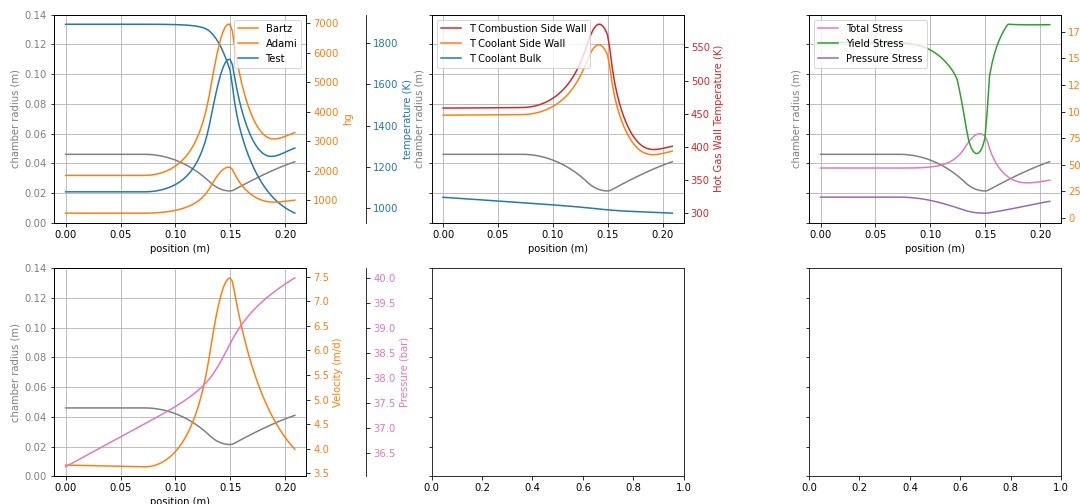
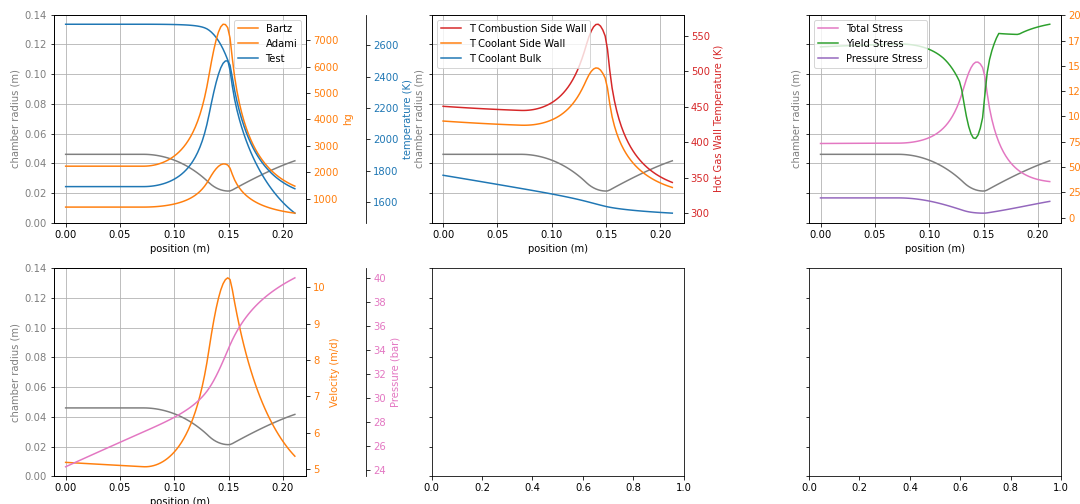
added a few scripts
TestPreNumerical (Contour test to fusion)
testContour (Contour test to fusion)

formatRPA (Formats RPA's thermal code)

RPAThermal (Creates lines for RPA thermodynamic library)

diff --git a/RPAStresses.py b/RPAStresses.py
@@ -1,6 +1,28 @@
 # Plz Delet all the titles for the text file before using this program
 import numpy as np
 import matplotlib.pyplot as plt
+import re
+
+with open('Thanos_RPA.txt', 'r') as input_file:
+    lines = input_file.readlines()
+
+lines = lines[8:]
+filtered_lines = [line for line in lines if not line.startswith('#')]
+
+# Define a regular expression to match numbers
+number_pattern = re.compile(r'[-+]?\d*\.\d+|\d+')
+
+filtered_lines = []
+for line in lines:
+    # Extract numerical values from the line using the regular expression
+    numbers = number_pattern.findall(line)
+    # Join the numbers into a comma-separated string and add it to the filtered lines
+    filtered_line = (' '.join(numbers) + '\n')
+    if filtered_line.strip():
+        filtered_lines.append(filtered_line)
+
+with open('Thanos_Filtered.txt', 'w') as output_file:
+    output_file.writelines(filtered_lines)
 
 x = np.array([25, 50, 100, 150, 200, 250, 300, 350, 400])
 y = np.array([77.6, 75.5, 72.8, 63.2, 60, 55, 45, 37, 28]) * 1e9
@@ -17,24 +39,14 @@ A2 = float(coefficients2[0])
 B2 = float(coefficients2[1])
 C2 = float(coefficients2[2])
 
-def calculate_stress_p(P_l, P_g, w, t_w, E, a, q, v, k):
-    stress_t = 0.5 * (P_l - P_g) * ((w - t_w) ** 2)
-    return stress_t
 
-def calculate_stress_l(E, a, delta_T):
-    stress_l = E * a * delta_T
-    return stress_l
-
-def calculate_stress_t_fornow(t_w, E, a, q, v, k):
-    stress_t = (E * a * q * t_w) / (2 * (1 - v) * k)
-    return stress_t
 
 a = 27 * 10 ** -6
 k = 100
 v = 0.33
-t_w = 0.0008
+t_w = 0.00075
 
-file_path = 'Thanos_RPA_calcs2.txt' # name of the text file
+file_path = 'Thanos_Filtered.txt' # name of the text file
 
 
 pos = []
@@ -46,6 +58,7 @@ tempstress_t = []
 tempstress_l = []
 tempstress_p = []
 von_mises = []
+a_channel = []
 
 data_arrays = []
 
@@ -54,6 +67,7 @@ with open(file_path, 'r') as file:
         line_array = line.split()
         line_array = [float(item) for item in line_array]
         data_arrays.append(line_array)
+
         T = float(line_array[6] - 273.15)
         if 0 < T < 400:
             E = A * (T ** 2) + B * T + C
@@ -62,10 +76,10 @@ with open(file_path, 'r') as file:
             E = 0
             Ys = 0
         q = float(line_array[5]) * 1000
-        stress_t = calculate_stress_t_fornow(t_w, E, a, q, v, k)
+        stress_t = (E * a * q * t_w) / (2 * (1 - v) * k)
         stress_t2 = E * a * (float(line_array[6]) - float(line_array[8]))
-        stress_p = 35e5 * 0.5 * (0.00475 * float(line_array[1]) / 51.1600 / t_w) ** 2
-        print((0.00475 * float(line_array[1]) / 51.1600))
+        stress_p = 35e5 * 0.5 * (0.00475 * float(line_array[1]) / 47.13 / t_w) ** 2
+        a_channel.append(0.00475 * float(line_array[1]) / 47.13)
         twg.append(float(line_array[6]))
         twc.append(float(line_array[8]))
         #print(float(line_array[6]) - float(line_array[8]))
@@ -87,19 +101,23 @@ with open(file_path, 'r') as file:
 #for array in data_arrays:
 #    print(array)
 #print(line_array)
-fig, ax = plt.subplots(1, 1, sharey=True)
-ax.plot(pos, rad)
-ax.set_ylabel("Chamber Radius (m)")
-ax2 = ax.twinx()
+fig, ax = plt.subplots(1, 2, figsize=(15, 5))
+#ax.plot(pos, rad)
+ax[0].set_ylabel("Chamber Radius (m)")
+ax2 = ax[0]
 ax2.plot(pos, yieldstress, color="tab:green"    , label="Yield stress")
 ax2.plot(pos, tempstress_t, color="tab:pink"    , label="Tangential Thermal")
 ax2.plot(pos, tempstress_l, color="tab:purple"  , label="Longitudinal Thermal")
 ax2.plot(pos, tempstress_p, color="tab:orange"  , label="Tangential Pressure")
 ax2.plot(pos, von_mises, color="tab:red"        , label="Von-Mises")
 ax2.set_ylabel("Stress (MPA)")
+ax2.set_xlabel("Wall thickness: 0.75mm, Angle: 30, OF: 2.5")
+ax[0].grid()
 ax2.legend()
+ax3 = ax[1]
+ax3.plot(pos, twg, label="twg")
+ax3.plot(pos, twc, label='twc')
+ax3.legend()
+ax3.grid()
 
-fig, ax = plt.subplots(1, 1, sharey=True)
-ax.plot(pos, twg)
-ax.plot(pos, twc)
-ax.grid()
+print(a_channel)

diff --git a/testContour.py b/testContour.py
@@ -1,0 +1,43 @@
+import adsk.core, adsk.fusion, adsk.cam, traceback
+import csv
+import math
+
+def run(context):
+    ui = None
+    try:
+    
+        app = adsk.core.Application.get()
+        ui  = app.userInterface
+        ui.messageBox('ContourTest')
+        design = app.activeProduct
+        rootComp = design.rootComponent 
+
+        
+        ############# preprocessing ####################
+        y = []
+        z = []
+
+        with open('C:\\Users\\Martin\\OfflineOnly\\ICLR\\Cooling-Channel-Contour-Gen\\contourtest.csv', 'r') as file:
+            my_reader = csv.reader(file, delimiter=',')
+            for row in my_reader:
+                y.append(float(row[0]))
+                z.append(float(row[1]))
+
+
+
+        ###### adding splines ############
+        sketches = rootComp.sketches
+        sketch = sketches.add(rootComp.xZConstructionPlane)
+        lines = sketch.sketchCurves.sketchLines
+        
+        
+        points = adsk.core.ObjectCollection.create()
+        p = adsk.core.Point3D.create(0, z[0], y[0])
+        for i in range(1, len(z)):
+            p2 = adsk.core.Point3D.create(0, z[i], y[i])
+            lines.addByTwoPoints(p, p2)
+            p = p2
+
+    except:
+        if ui:
+            ui.messageBox('Failed:\n{}'.format(traceback.format_exc()))

diff --git a/RPAThermal.py b/RPAThermal.py
@@ -1,0 +1,24 @@
+from CoolProp.CoolProp import PropsSI
+import matplotlib.pyplot as plt
+print(f"Ethanol Qs {PropsSI('H','P',101325,'Q',1,'Ethanol')-PropsSI('H','P',101325,'Q',0,'Ethanol')}")
+
+
+#print(f"Ethanol Ts {PropsSI('T','P',101325,'Q',0,'Ethanol')}")
+P = [1e5, 10e5, 40e5]
+T = 270
+fluid = 'Ethanol'
+for _, p in enumerate(P):
+    Cp = PropsSI('C','P',p,'T',T,fluid)
+    D = PropsSI('D','P',p,'T',T,fluid)
+    V = PropsSI('V','P',p,'T',T,fluid)
+    L = PropsSI('L','P',p,'T',T,fluid)
+    Ts = PropsSI('T','P',p,'Q',0,fluid)
+    Qs = (PropsSI('H','P',p,'Q',1,fluid)-PropsSI('H','P',p,'Q',0,fluid))/1000
+    print(f"{p/1e6} {T} {Cp:.2f} {D:.2f} {V:.2f} {L:.2f} {Ts:.2f} {Qs:.2f}")
+    
+Pvap = []
+Tvap = []
+for p in range(100000, 4000000, 100000):
+    Pvap.append(p)
+    Tvap.append(PropsSI('T','P',p,'Q',0,fluid))
+plt.plot(Pvap, Tvap)

diff --git a/formatRPA.py b/formatRPA.py
@@ -1,0 +1,22 @@
+import re
+
+with open('Thanos_RPA.txt', 'r') as input_file:
+    lines = input_file.readlines()
+
+lines = lines[8:]
+filtered_lines = [line for line in lines if not line.startswith('#')]
+
+# Define a regular expression to match numbers
+number_pattern = re.compile(r'[-+]?\d*\.\d+|\d+')
+
+filtered_lines = []
+for line in lines:
+    # Extract numerical values from the line using the regular expression
+    numbers = number_pattern.findall(line)
+    # Join the numbers into a comma-separated string and add it to the filtered lines
+    filtered_line = (' '.join(numbers) + '\n')
+    if filtered_line.strip():
+        filtered_lines.append(filtered_line)
+
+with open('Thanos_Filtered.txt', 'w') as output_file:
+    output_file.writelines(filtered_lines)

diff --git a/newprototype.py b/newprototype.py
@@ -423,7 +423,8 @@ class RocketEngine:
 
             dx = self.x[1] - self.x[0]
             Tco_i = Tco_i + 1 / (mdot * cp) * q * (2 * np.pi * r * dx / self.N_channels)
-            Pco_i = Pco_i - 32 * cf * dx * mdot **2 / (density * np.pi**2 * Dh**5)
+            #Pco_i = Pco_i - 32 * cf * dx * mdot **2 / (density * np.pi**2 * Dh**5)
+            Pco_i = Pco_i - 4 * cf * dx / Dh * density * velocity ** 2
 
 
 def displaysim(showtext):
@@ -602,7 +603,7 @@ thanos.defineGeometry(
 )
 
 thanos.defineChannels(
-    h=0.0015,
+    h=0.008,
     hc0=0.0015,
     hcmultiplier=np.ones(100),
     a0=0.00475,

diff --git a/contourTestPreNumerical.py b/contourTestPreNumerical.py
@@ -1,0 +1,13 @@
+import numpy as np
+import matplotlib.pyplot as plt
+import pandas as pd
+import math
+
+r = np.load('r.npy') #load radius contour
+r *= 100 #convert to mm
+z = -100*np.load('z.npy') - 1.51#load z coords
+
+df_big = pd.DataFrame()
+df_big.loc[:,1] = r
+df_big.loc[:,0] = z
+df_big.to_csv("contourtest.csv", index=False, header=False)
